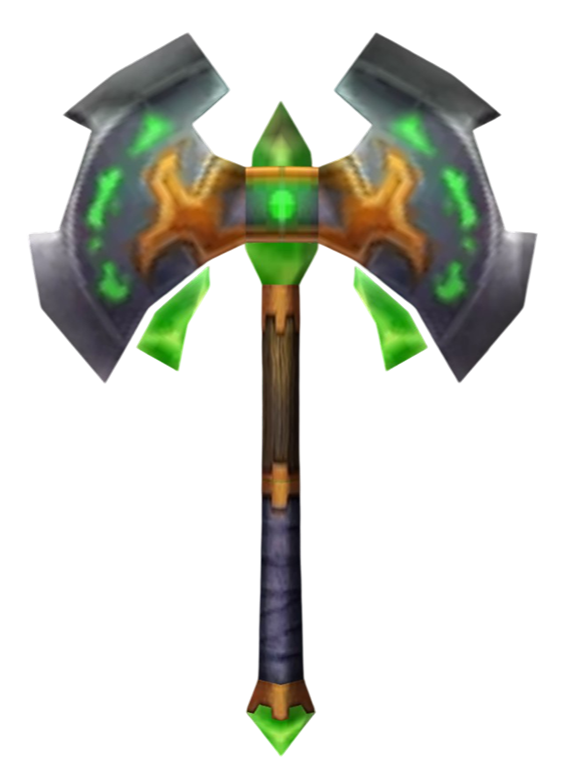
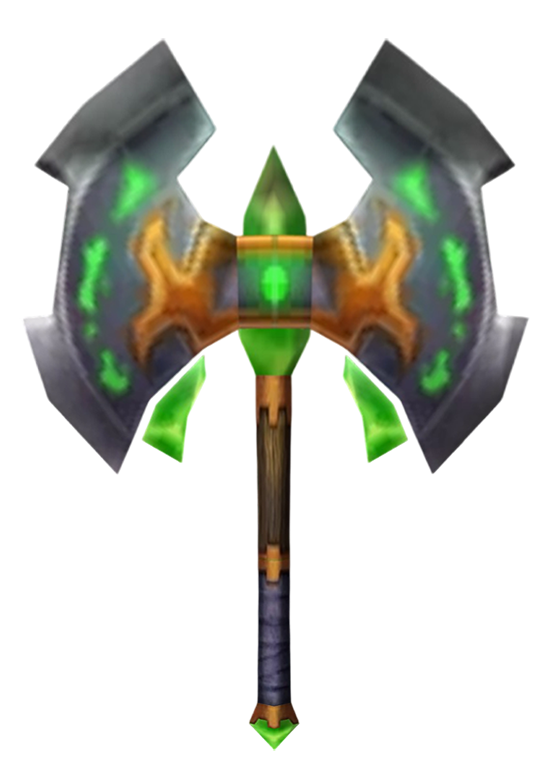
Исправил баги фоток топоров

diff --git a/README.md b/README.md
@@ -43,7 +43,7 @@
 В процессе (сколько готово):
 - Расы детальная стр: Орда: Орк, Магхар, Нежить, Таурены, Таурены Крутогорья, Земельники,
 Альянс: Земельники
-- 165 Двуручных топоров
+- 176 Двуручных топоров
 - 242 Летающих Маунтов
 - 42 Наземных Маунтов
 - 129 Легендарной Брони
